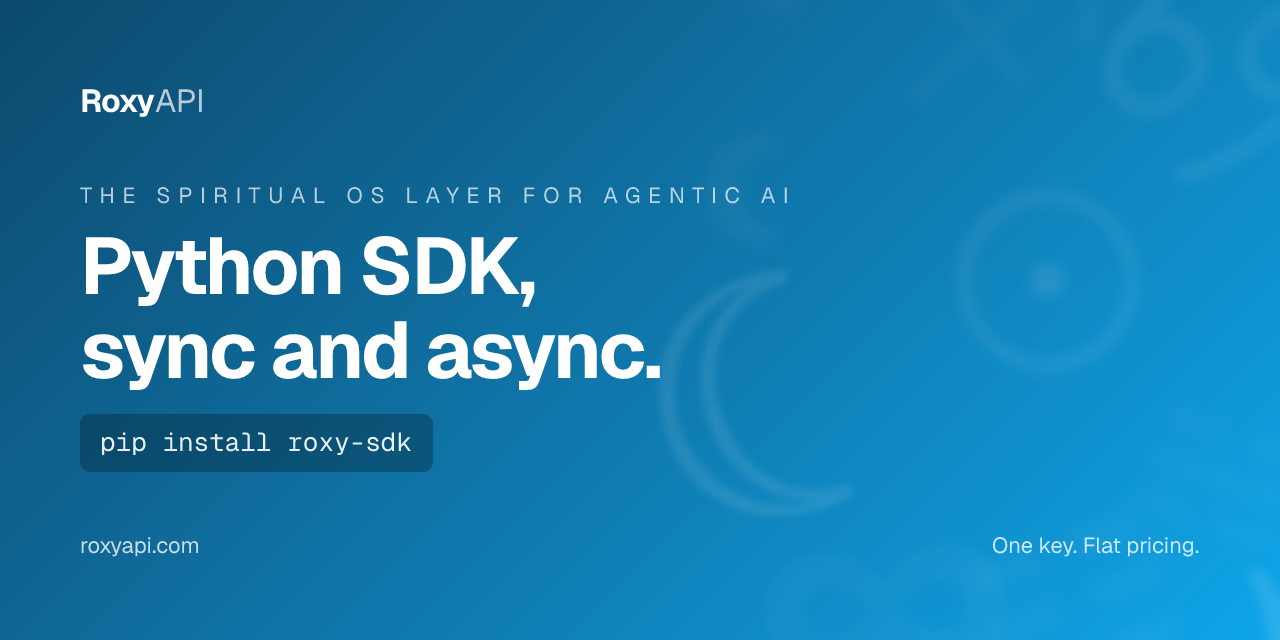
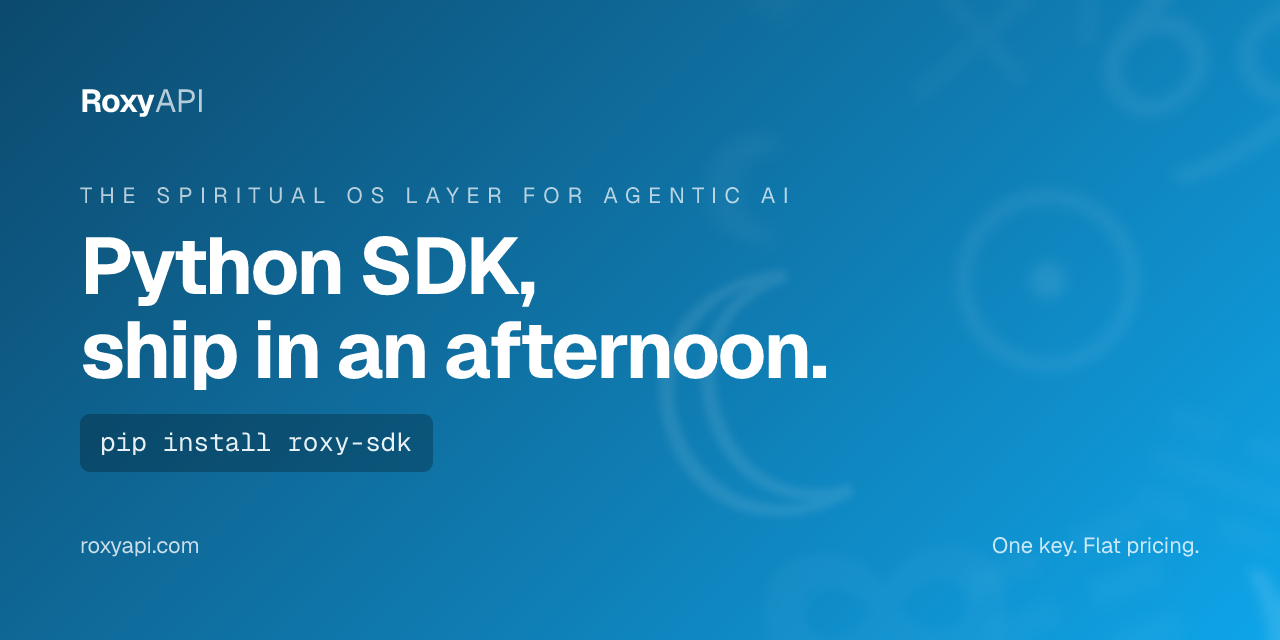
docs: hero promise line sells the outcome

Changed region(s): [[0.0938, 0.5, 0.6562, 0.625]]

diff --git a/README.md b/README.md
@@ -1,6 +1,6 @@
 <p align="center">
   <a href="https://roxyapi.com">
-    <img src="https://raw.githubusercontent.com/RoxyAPI/sdk-python/main/assets/hero.png" alt="RoxyAPI Python SDK, sync and async. The Spiritual OS layer for agentic AI. One key, flat pricing." width="100%">
+    <img src="https://raw.githubusercontent.com/RoxyAPI/sdk-python/main/assets/hero.png" alt="RoxyAPI Python SDK, ship in an afternoon. The Spiritual OS layer for agentic AI. One key, flat pricing." width="100%">
   </a>
 </p>
 
